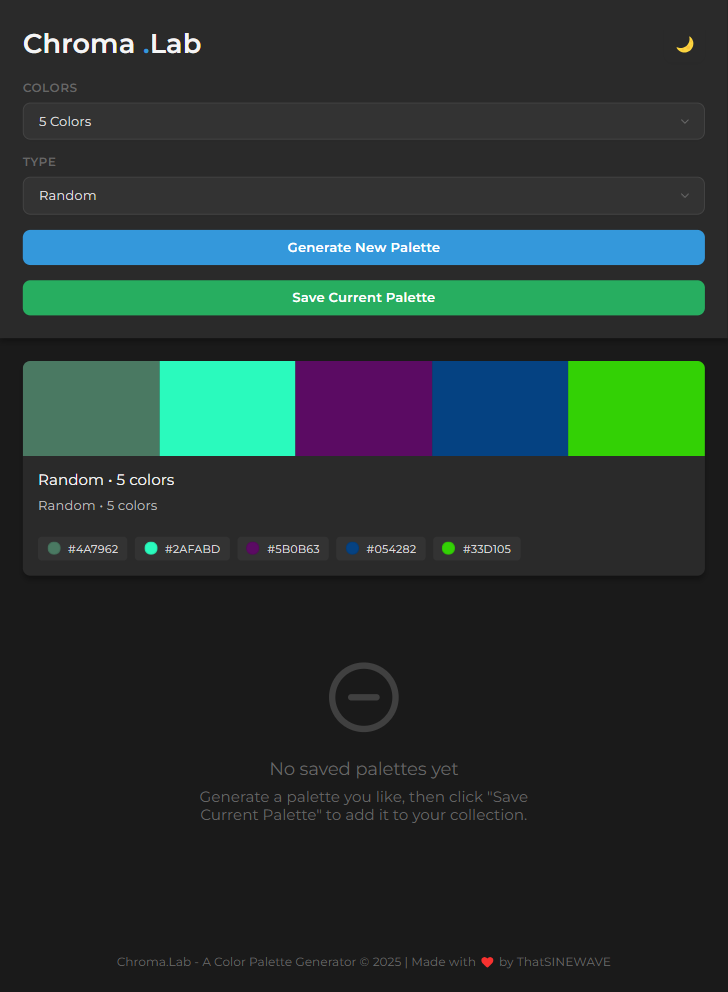
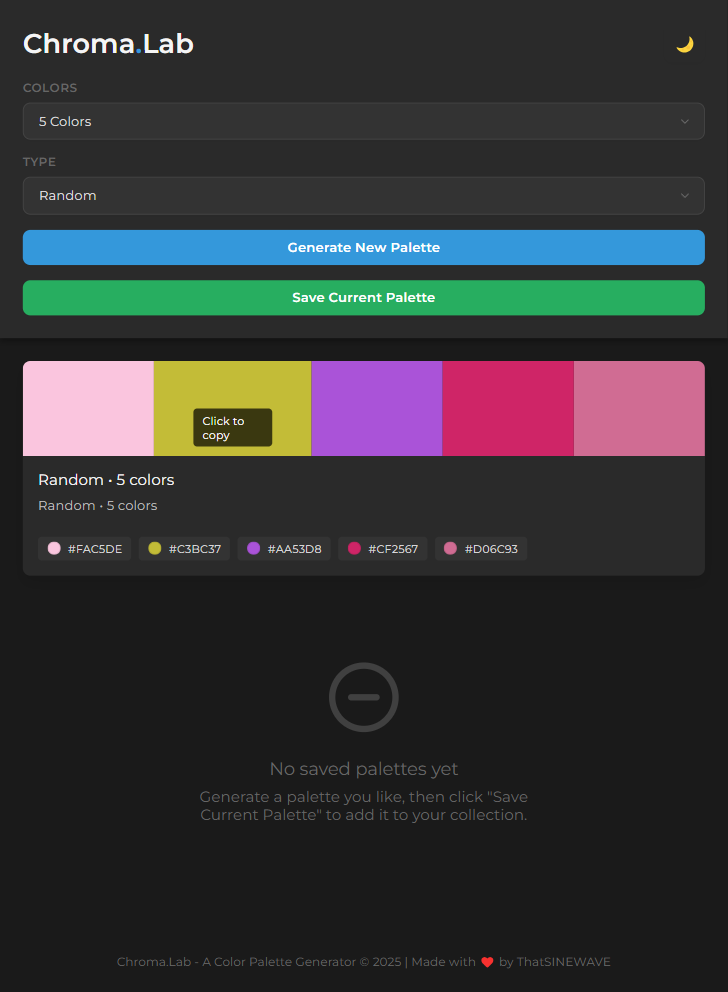
updated name

diff --git a/index.html b/index.html
@@ -15,7 +15,7 @@
   <body>
     <header>
       <div class="app-title">
-        <h1 class="logo">Chroma <span>.</span>Lab </h1>
+        <h1 class="logo">Chroma<span>.</span>Lab</h1>
         <button id="themeToggle" class="theme-toggle">☀</button>
       </div>
       <div class="controls">

diff --git a/README.md b/README.md
@@ -1,6 +1,6 @@
 <div align="center">
 
-# [ChromaLab](https://thatsinewave.github.io/ChromaLab)
+# [Chroma.Lab](https://thatsinewave.github.io/ChromaLab)
 
 ![ChromaLab](https://raw.githubusercontent.com/ThatSINEWAVE/WebSort/refs/heads/main/.github/SCREENSHOTS/ChromaLab.png)
 
